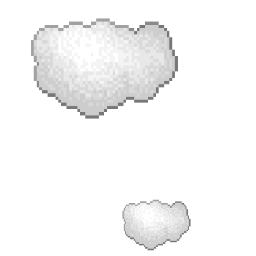
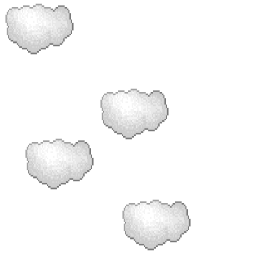
Implemented animated level end screen.

Changed region(s): [[0.0, 0.0, 0.7188, 0.5625], [0.0938, 0.5312, 0.375, 0.75]]

diff --git a/core/src/edu/gvsu/cis/spacejourney/screens/LevelEndScreen.kt b/core/src/edu/gvsu/cis/spacejourney/screens/LevelEndScreen.kt
@@ -9,6 +9,8 @@ import com.badlogic.gdx.scenes.scene2d.ui.Table
 import com.badlogic.gdx.utils.viewport.FillViewport
 import edu.gvsu.cis.spacejourney.SpaceJourney
 import edu.gvsu.cis.spacejourney.Strings
+import edu.gvsu.cis.spacejourney.managers.GameDataManager
+import ktx.log.debug
 
 class LevelEndScreen(game: SpaceJourney) : BaseScreen(game, "LevelEndScreen") {
 
@@ -16,8 +18,15 @@ class LevelEndScreen(game: SpaceJourney) : BaseScreen(game, "LevelEndScreen") {
 
     private var screenData: Table? = null
     private var font: BitmapFont? = null
+    private var style: Label.LabelStyle? = null
+
+    private var scoreLabel: Label? = null
+    private var livesLabel: Label? = null
 
     private var time: Float = 0.0f
+    private var score: Int = 0
+    private var lives: Int = 0
+    private var scoreIncrement: Int = 1
 
     override fun show() {
         super.show()
@@ -27,12 +36,25 @@ class LevelEndScreen(game: SpaceJourney) : BaseScreen(game, "LevelEndScreen") {
 
         font = SpaceJourney.assetManager.get("fonts/default.fnt")
         font?.data?.scale(0.01f)
+        style = Label.LabelStyle(font, Color.WHITE)
+
+        scoreLabel = Label(String.format(Strings.HUD_SCORE, score), style)
+        livesLabel = Label(String.format(Strings.LIVES_LABEL, lives), style)
 
         screenData = Table()
         screenData?.setFillParent(true)
-        screenData?.add(Label(Strings.LEVEL_END, Label.LabelStyle(font, Color.WHITE)))?.padBottom(50.0f)?.expandX
+        screenData?.add(Label(Strings.LEVEL_END, style))?.padBottom(50.0f)?.expandX
+        screenData?.row()
+        screenData?.add(scoreLabel)?.expandX
+        screenData?.row()
+        screenData?.add(livesLabel)?.expandX
 
         stage?.addActor(screenData)
+
+        time = 0.0f
+        score = 0
+        lives = 0
+        scoreIncrement = if (GameDataManager.getInstance().score % 2 == 0) 2 else 3
     }
 
     override fun render(delta: Float) {
@@ -42,10 +64,23 @@ class LevelEndScreen(game: SpaceJourney) : BaseScreen(game, "LevelEndScreen") {
         stage?.act()
         stage?.draw()
 
-        time += delta
+        if (score >= GameDataManager.getInstance().score) {
 
-        if (time > 2.0f) {
-            this.game.setScreen<LevelSelectScreen>()
+            time += delta
+
+            if (time >= 0.5f) {
+                livesLabel?.setText(String.format(Strings.LIVES_LABEL, lives))
+                lives++
+                time = 0.0f
+            }
+
+            if (lives >= GameDataManager.getInstance().lives + 2) {
+                this.game.setScreen<LevelSelectScreen>()
+            }
+
+        } else {
+            score += scoreIncrement
+            scoreLabel?.setText(String.format(Strings.HUD_SCORE, score))
         }
     }
 

diff --git a/core/src/edu/gvsu/cis/spacejourney/level/earth/EarthLevel.kt b/core/src/edu/gvsu/cis/spacejourney/level/earth/EarthLevel.kt
@@ -47,7 +47,7 @@ class EarthLevel : Level() {
                 position = Vector2(0f, 0f)
             }
             with<StaticSprite> {
-                zindex = ZIndex.PARALLAX_BACKGROUND_LAYER1
+                zindex = ZIndex.PARALLAX_BACKGROUND_LAYER3
                 texture = SpaceJourney.assetManager.get("cloud_test.jpg", Texture::class.java)
                 repeating = true
                 size = Vector2(Gdx.graphics.width.toFloat(), Gdx.graphics.height.toFloat())
@@ -63,7 +63,7 @@ class EarthLevel : Level() {
                 position = Vector2(0f, 0f)
             }
             with<StaticSprite> {
-                zindex = ZIndex.PARALLAX_BACKGROUND_LAYER3
+                zindex = ZIndex.PARALLAX_BACKGROUND_LAYER1
                 texture = SpaceJourney.assetManager.get("parallax_small_cloud_layer.png", Texture::class.java)
                 repeating = true
                 size = Vector2(Gdx.graphics.width.toFloat(), Gdx.graphics.height.toFloat())
@@ -161,7 +161,7 @@ class EarthLevel : Level() {
                     transitionColor.b,
                     transitionColor.a)
                 .ease(Quad.IN))
-            .push(Tween.to(spriteTwo, StaticSpriteAccessor.TYPE_COLOR, 3.0f)
+            .push(Tween.to(spriteTwo, StaticSpriteAccessor.TYPE_COLOR, 2.0f)
                 .target(
                     transitionColor.r,
                     transitionColor.g,

diff --git a/core/src/edu/gvsu/cis/spacejourney/screens/hud/DefaultOverlay.kt b/core/src/edu/gvsu/cis/spacejourney/screens/hud/DefaultOverlay.kt
@@ -33,7 +33,7 @@ class DefaultOverlay : Table() {
     /**
      * Default constructor that initially maxes
      * out space on the screen, which is then updated by
-     * the actual [edu.gvsu.cis.spacejourney.managers.GameDataManager] class.
+     * the actual {@edu.gvsu.cis.spacejourney.managers.GameDataManager} class.
      */
     init {
         this.gameData = GameDataManager.getInstance()

diff --git a/core/src/edu/gvsu/cis/spacejourney/Strings.java b/core/src/edu/gvsu/cis/spacejourney/Strings.java
@@ -57,4 +57,9 @@ public final class Strings {
    */
   public static final String LEVEL_END = "LEVEL END";
 
+  /**
+   * String text used to represent lives as text.
+   */
+  public static final String LIVES_LABEL = "LIVES %02d";
+
 }
